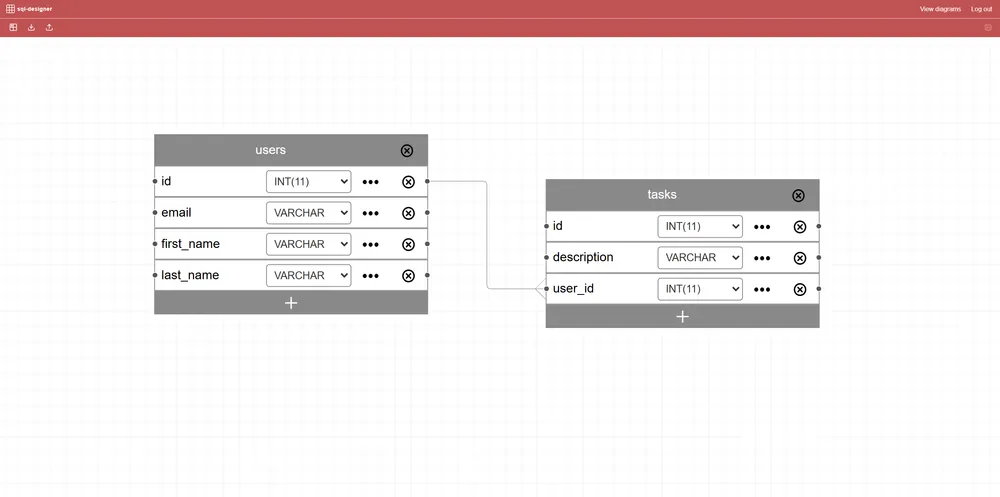
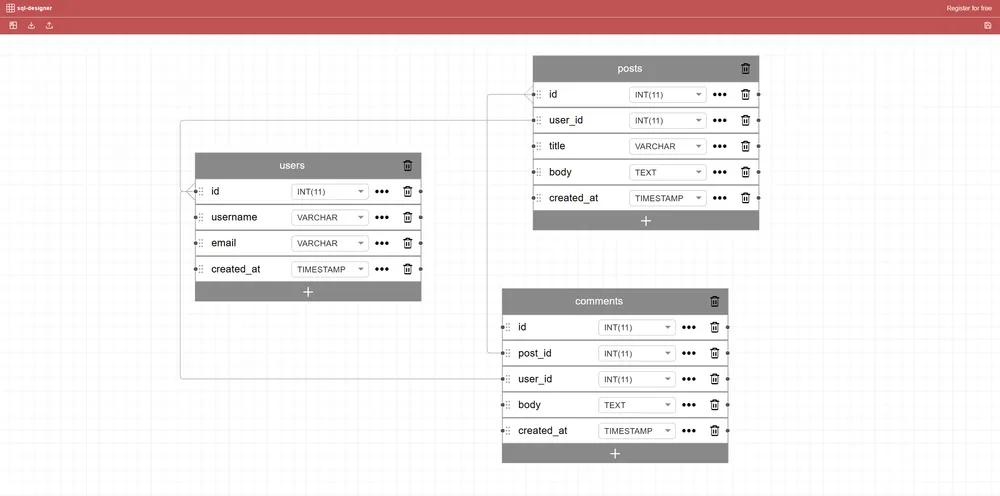
feat: updated screenshot on the main page

Changed region(s): [[0.0, 0.0, 1.0, 0.9375], [0.155, 0.2419, 0.496, 0.6351]]

diff --git a/backend/resources/views/home.blade.php b/backend/resources/views/home.blade.php
@@ -15,15 +15,15 @@
     <meta property="og:type" content="website">
     <meta property="og:url" content="https://sql-designer.com/">
     <meta property="og:image" content="https://sql-designer.com/images/screenshot.png">
-    <meta property="og:image:width" content="2556">
-    <meta property="og:image:height" content="1271">
+    <meta property="og:image:width" content="2557">
+    <meta property="og:image:height" content="1269">
     <meta property="og:image:alt" content="SQL Designer — visual MySQL schema editor">
     <meta name="twitter:card" content="summary_large_image">
     <meta name="twitter:title" content="SQL Designer — Free MySQL Schema Designer">
     <meta name="twitter:description" content="Design, visualize, and export your MySQL database schemas online for free.">
     <meta name="twitter:image" content="https://sql-designer.com/images/screenshot.png">
     <link rel="canonical" href="https://sql-designer.com/">
-    <link rel="preload" as="image" href="/images/screenshot-1000.webp" imagesrcset="/images/screenshot-600.webp 600w, /images/screenshot-1000.webp 1000w, /images/screenshot.webp 2556w" imagesizes="(max-width: 660px) calc(100vw - 3rem), 1000px" fetchpriority="high">
+    <link rel="preload" as="image" href="/images/screenshot-1000.webp" imagesrcset="/images/screenshot-600.webp 600w, /images/screenshot-1000.webp 1000w, /images/screenshot.webp 2557w" imagesizes="(max-width: 660px) calc(100vw - 3rem), 1000px" fetchpriority="high">
     <script type="application/ld+json">
     [
         {
@@ -457,9 +457,9 @@
             <picture>
                 <source
                     type="image/webp"
-                    srcset="{{ asset('images/screenshot-600.webp') }} 600w, {{ asset('images/screenshot-1000.webp') }} 1000w, {{ asset('images/screenshot.webp') }} 2556w"
+                    srcset="{{ asset('images/screenshot-600.webp') }} 600w, {{ asset('images/screenshot-1000.webp') }} 1000w, {{ asset('images/screenshot.webp') }} 2557w"
                     sizes="(max-width: 660px) calc(100vw - 3rem), 1000px">
-                <img src="{{ asset('images/screenshot.png') }}" alt="SQL Designer diagram editor — tables with columns and foreign key relationships on a visual canvas" width="2556" height="1271" loading="eager" fetchpriority="high">
+                <img src="{{ asset('images/screenshot.png') }}" alt="SQL Designer diagram editor — tables with columns and foreign key relationships on a visual canvas" width="2557" height="1269" loading="eager" fetchpriority="high">
             </picture>
         </div>
     </section>